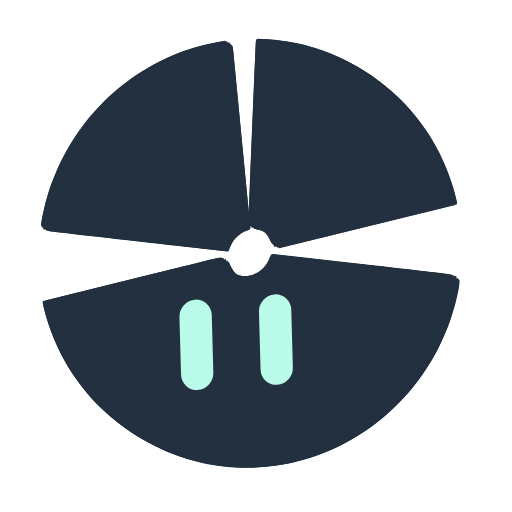
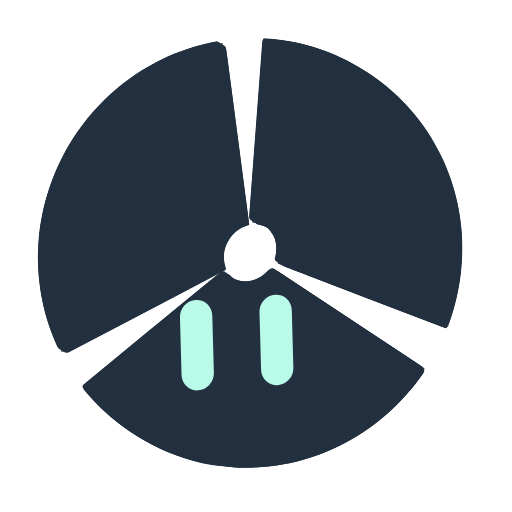
feat(assets): equal, wide wedge gaps — and an idle GIF of the three moods
The wedges are generated rather than hand-drawn: three sectors of equal span with 12 degrees between
them (about 9 units at the rim) around a round centre hole, eyes on the bottom wedge. Equal gaps fix
the hand-drawn feel of the previous definition, and keeping them wide is what keeps the three pieces
reading as separate wedges — narrowing them to thin cuts turns the chart back into a pie with knife
marks.

The GIF animates the renderer's own three moods: pills at rest, eyes shifting while thinking, then the
happy arcs. 48 frames rendered with `time` and `motion` (blending over the first 0.4 s of each switch),
quantised onto one shared palette so the loop does not shimmer: 3 s, 16 fps, 256 px, about 165 KB.
GIF has one bit of transparency, so the frames are composited on white rather than shipping an
anti-aliased edge that would fringe against any other background.

diff --git a/assets/avatar/README.md b/assets/avatar/README.md
@@ -6,18 +6,30 @@ pun, and a quiet nod to the work (measure, split, report), with the eyes on the 
 
 | File | What it is |
 | --- | --- |
-| `pie-chart.json` | The definition (v1, `validateAvatar` clean, 262 characters of path). Paste it into the [editor](https://dominikscholz.github.io/open-bot-avatar/) to recolor, turn, animate or export. |
+| `pie-chart.json` | The definition (v1, `validateAvatar` clean). Paste it into the [editor](https://dominikscholz.github.io/open-bot-avatar/) to recolor, turn, animate or export. |
 | `pie-chart-amber.svg` / `.png` | Amber. The default. |
 | `pie-chart-berry.svg` / `.png` | Berry. |
 | `pie-chart-teal.svg` / `.png` | Teal. |
 | `pie-chart-ink.svg` / `.png` | Ink body with mint eyes, for light surfaces that want weight. |
+| `pie-chart-idle.gif` | 3 s loop, 48 frames at 16 fps, 256 px: idle → thinking → happy. |
 
-512×512 PNGs with a transparent background, which is what the Feishu console wants (开发者后台 →
-应用信息 → 头像). Transparent on purpose: Feishu draws avatars on light and dark chrome alike, and a
-filled square just becomes a second frame.
+The three wedges are drawn programmatically rather than by hand: equal 12° gaps (about 9 units at the
+rim), a round centre hole, and the eyes on the bottom wedge. The gaps are equal *and* wide enough that
+the wedges read as separate pieces — narrowing them to thin cuts turns the chart back into a pie with
+knife marks, which is what the first attempt looked like.
+
+The PNGs are 512×512 with a transparent background, which is what the Feishu console wants for 头像
+（开发者后台 → 应用信息 → 头像). Transparent on purpose: Feishu draws avatars on light and dark chrome
+alike, and a filled square just becomes a second frame.
+
+The GIF has a white background, because GIF transparency is one bit and the anti-aliased rim would
+fringe against any other colour. It animates the renderer's three moods: pills at rest, eyes shifting
+while thinking, then the happy arcs. Regenerate with `time`/`motion` per frame — the engine does the
+rest, no hand-drawn keyframes.
 
 `prompt.md` is the prompt this was designed with — the schema, the numeric limits and the craft rules,
 self-contained, so another model can produce more candidates.
 
 Not kept: a stroke-drawn π on a dark square (a logo, not a character), the π as a solid slab with a
-face on the brim (a crate), and a pie with a slice lifted out (read as a cookie with a bite).
+face on the brim (a crate), a pie with a slice lifted out (read as a cookie with a bite), and a
+24-lobe crimped pie (read as a blob).
